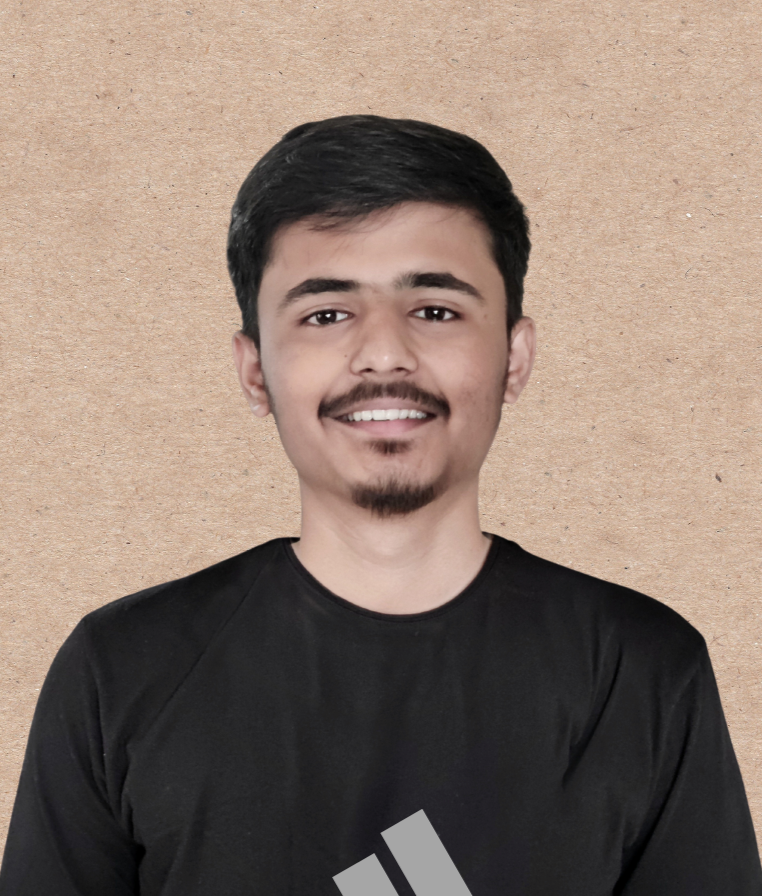
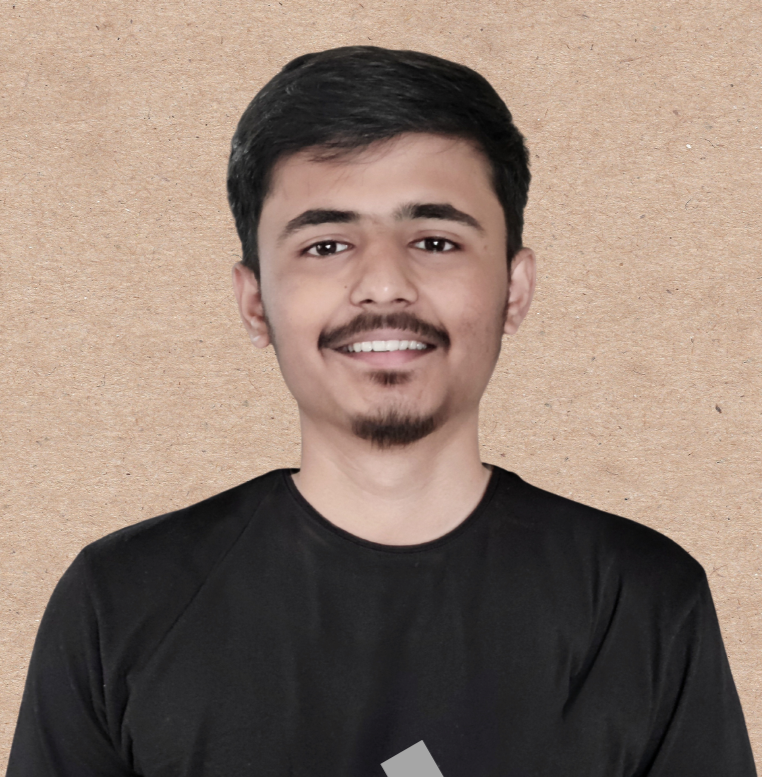
feat: add card && refactor: change font

diff --git a/src/pages/webTeam/Web.scss b/src/pages/webTeam/Web.scss
@@ -10,75 +10,68 @@
 
             h1 {
                 font-size: 90px;
-                font-family: Playfair Display, serif;
+                font-family: IBM plex sans, serif;
                 margin: 0;
-            }
-
-            span {
-                font-family: "Montserrat", sans-serif;
-                text-align: left;
-                font-size: 20px;
-                color: #000000;
             }
 
             .info {
                 text-align: center;
                 margin-bottom: 50px;
                 font-size: 20px;
+                font-family: work sans, sans-serif;
+
             }
 
-            p {
-                display: flex;
-                align-items: center;
-                justify-content: center;
-                text-align: center;
-                font-size: 20px;
-                margin: 0;
-                font-family: "Montserrat", sans-serif;
-                text-align: left;
-                color: #002880;
-                box-sizing: border-box;
+            .team-card {
+                padding: 1rem;
+                background-color: white;
+                transition: all 0.5s;
+                
+                &:hover{
+                   transform: translateY(-0.5rem);
+                   background-color: rgb(172, 205, 255);
+                   box-shadow: 10px 10px 51px 0px rgba(158, 158, 158, 0.61);
+                }
 
-                .border {
+                img{
+                    width: 50%;
+                    height: 50%;
+                    border-radius: 50%;
+                }
+
+                .lead-name {
+                    margin: 0;
+                    font-family:work sans, sans-serif ;
+                    font-weight: 600;
+                    font-size: 1.3rem;
+                    padding: 0.5rem 0 0 0;
+                    color: rgb(0, 119, 255);
+                }
+
+                .designation {
+                font-family: work sans, sans-serif;
+
+                }
+                .socials{
                     display: flex;
-                    align-items: center;
                     justify-content: center;
-                    text-align: center;
-                    margin-top: 5px;
-                    width: 300px;
-                    height: 65px;
-                    border-radius: 40px;
-                    background-image: linear-gradient(225deg, #3b20b6, rgb(37, 114, 255));
-                    box-shadow: 0 11px 36px 0 rgb(70 89 138 / 25%);
+                    align-items: center;
+                    gap: 1rem;
 
-                    &:hover {
-                        cursor: pointer;
-                        background-image: linear-gradient(225deg, #471ff7, rgb(106, 157, 251));
-                    }
+                    a{
+                        font-size: 1.5rem;
+                        color: rgb(52, 52, 52);
 
-                    .lead-icon {
-                        width: 50px;
-                        height: 50px;
-                        border-radius: 50%;
-                        margin: 40px 10px 40px 10px;
-                        background-color: #002880;
-
-                        img {
-                            border-radius: 50%;
-                            width: 50px;
-                            height: 50px;
-                            width: 100%;
+                        &:hover{
+                            color: rgb(43, 103, 255);
+                            transition: all 0.5s;
                         }
                     }
 
-                    span {
-                        color: white;
-                        font-size: 15px;
-                        text-decoration: none;
-                    }
+                   
                 }
-
             }
+
 
         }
 
@@ -86,7 +79,7 @@
             padding: 0px;
 
             .homeImg {
-                width: 80%;
+                width: 70%;
             }
 
             display: flex;

diff --git a/src/pages/webTeam/WebTeam.js b/src/pages/webTeam/WebTeam.js
@@ -11,9 +11,17 @@ const WebTeam = () => {
           <div className='container'>
             <div className="team-name">
               <h1>WEB TEAM</h1>
-              <p className='info'>Web team is a group of persons responsible for development of web site.</p>
-              <span>LEAD</span>
-              <p><a style={{ textDecoration: "none" }} href="https://github.com/abhishekrd" target="_blank"><div className='border'><div className='lead-icon'><img src="./assets/teams/webteam/abhishekdhanke.png" alt="head-img" /></div> <span> Abhishek Dhanke</span></div> </a></p>
+              <p className='info'>Web team is a group of persons responsible for development of our official Website.</p>
+              <div className='team-card'>
+                <img className='lead-photo' src='./assets/teams/webteam/abhishekdhanke.png'></img>
+                <p className='lead-name'>Abhishek Dhanke</p>
+                <p className='designation'>Web Team Head</p>
+                <div className='socials'>
+                  <a href='https://github.com/abhishekrd'><i className="fa-brands fa-github icons"></i></a>
+                                
+                  <a href='https://www.linkedin.com/in/abhishek-dhanke-226354216/'><i className="fa-brands fa-linkedin icons"></i></a>
+                </div>
+              </div>
             </div>
             <img src="./assets/web-home.png" alt="home" className='homeImg' />
           </div>

diff --git a/src/pages/landing-page/Land.scss b/src/pages/landing-page/Land.scss
@@ -18,15 +18,16 @@
         .left-content {
 
             .head-line2 {
-                font-family: 'Playfair Display', serif;
+                font-family: 'work sans', serif;
                 font-weight: 800;
-                font-size: 5rem;
+                font-size: 4rem;
+                
             }
 
             .head-line {
-                font-family: 'Playfair Display', serif;
+                font-family: 'work sans', serif;
                 font-weight: 800;
-                font-size: 4rem;
+                font-size: 3rem;
 
                 #static {
                     font-family: 'Playfair Display', serif;
@@ -158,8 +159,8 @@
                     border-color: none;
                     color: white;
                     background-color: #0a5dcb;
-                    font-family: 'Montserrat', sans-serif;
-                    font-size: 12px;
+                    font-family: 'Work Sans', sans-serif;
+                    font-size: 1.2rem;
                     font-weight: 600;
                     margin: auto;
                     width: 220px;

diff --git a/public/index.html b/public/index.html
@@ -11,6 +11,9 @@
   <link rel="stylesheet" href="https://cdnjs.cloudflare.com/ajax/libs/font-awesome/6.2.0/css/all.min.css">
   <link rel="preconnect" href="https://fonts.googleapis.com">
   <link rel="preconnect" href="https://fonts.gstatic.com" crossorigin>
+  <link rel="preconnect" href="https://fonts.googleapis.com">
+<link rel="preconnect" href="https://fonts.gstatic.com" crossorigin>
+<link href="https://fonts.googleapis.com/css2?family=IBM+Plex+Sans:wght@500&family=Inter:wght@400;500&family=Roboto&family=Work+Sans:wght@500&display=swap" rel="stylesheet">
   <link href="https://fonts.googleapis.com/css2?family=Poppins:wght@500&display=swap" rel="stylesheet">
   <link href="https://fonts.googleapis.com/css2?family=Playfair+Display:wght@400;600;800&display=swap" rel="stylesheet">
   <link href="https://fonts.googleapis.com/css2?family=Lora&display=swap" rel="stylesheet">

diff --git a/src/components/navbar/Navbar.scss b/src/components/navbar/Navbar.scss
@@ -3,8 +3,8 @@ nav {
     display: flex;
     justify-content: space-between;
     align-items: center;
-    height: 80px;
-    padding: 60px 100px;
+    height: 40px;
+    padding: 50px 100px;
 
     .logo-container {
         display: flex;
@@ -35,8 +35,10 @@ nav {
             .nav-items {
                 color: black;
                 list-style: none;
-                margin: 30px;
+                margin: 30px ;
                 transition: 0.3s ease-in-out;
+                font-family: 'work sans', sans-serif;
+                letter-spacing: 0.05rem;
 
                 &:hover {
                     color: #0a5dcb;
